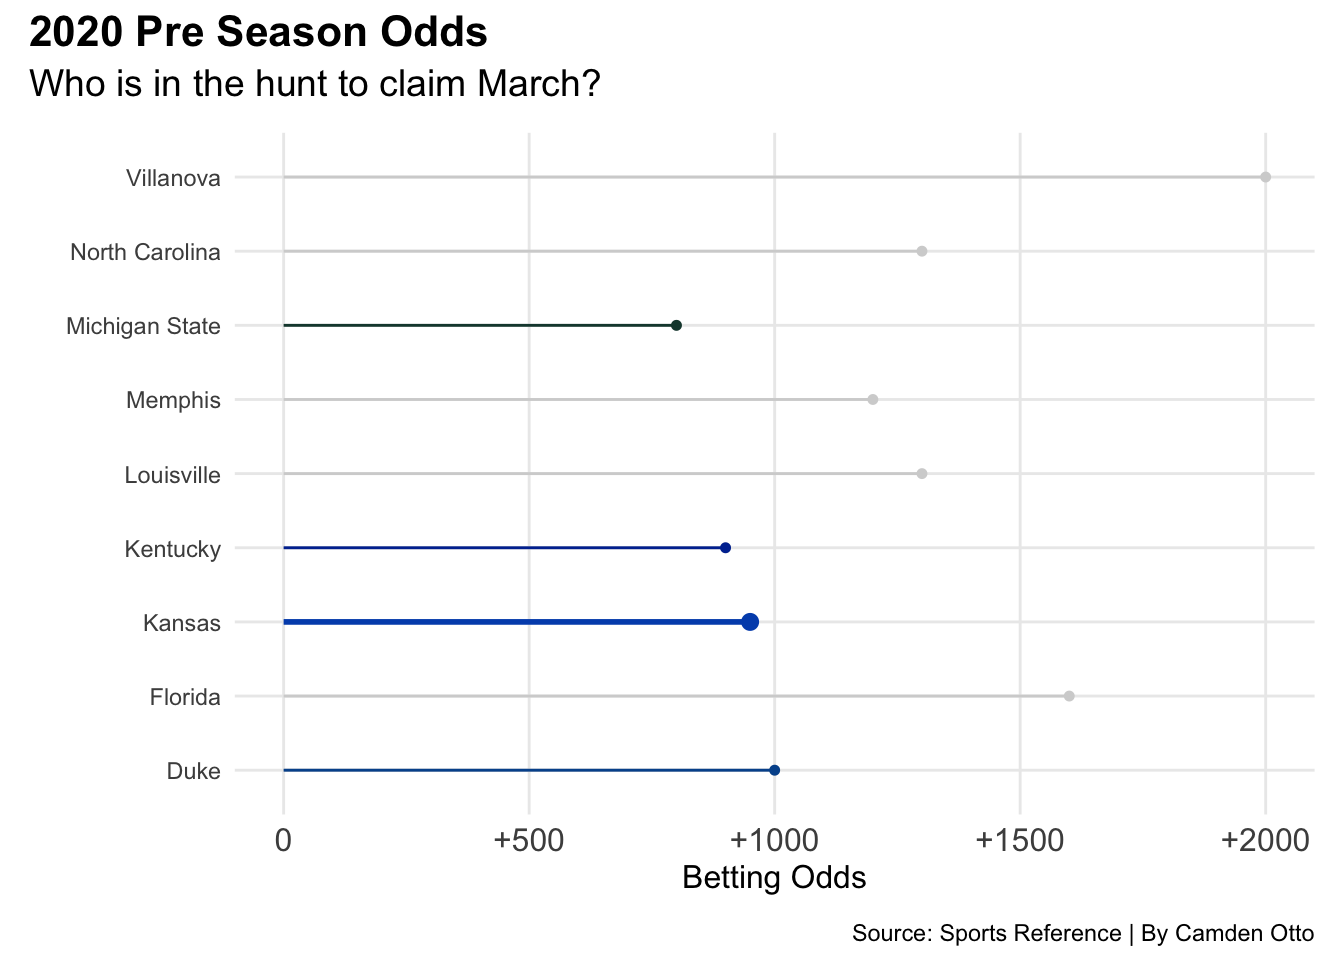
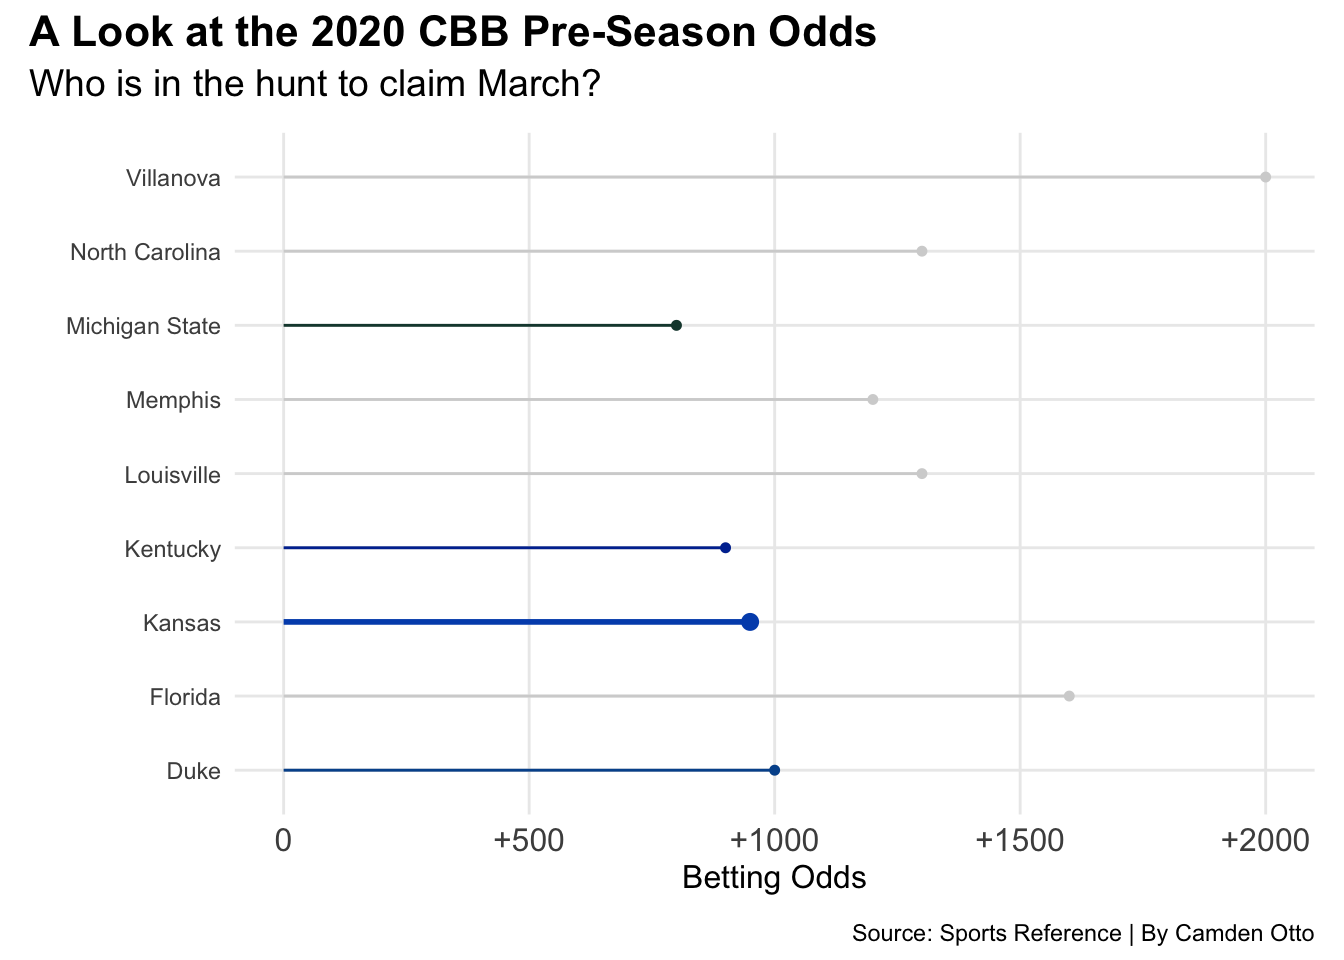
2.3

Changed region(s): [[0.0312, 0.0, 0.6562, 0.0625]]

diff --git a/posts/covid-got-scared-of-the-jayhawks/index.html b/posts/covid-got-scared-of-the-jayhawks/index.html
@@ -244,7 +244,7 @@ pre > code.sourceCode > span > a:first-child::before { text-decoration: underlin
 <span id="cb1-40"><a href="#cb1-40" aria-hidden="true" tabindex="-1"></a>    <span class="at">y=</span><span class="st">" "</span></span>
 <span id="cb1-41"><a href="#cb1-41" aria-hidden="true" tabindex="-1"></a>    ) <span class="sc">+</span></span>
 <span id="cb1-42"><a href="#cb1-42" aria-hidden="true" tabindex="-1"></a>    <span class="fu">plot_annotation</span>(</span>
-<span id="cb1-43"><a href="#cb1-43" aria-hidden="true" tabindex="-1"></a>    <span class="at">title =</span> <span class="st">"2020 Pre Season Odds"</span>,</span>
+<span id="cb1-43"><a href="#cb1-43" aria-hidden="true" tabindex="-1"></a>    <span class="at">title =</span> <span class="st">"A Look at the 2020 CBB Pre-Season Odds"</span>,</span>
 <span id="cb1-44"><a href="#cb1-44" aria-hidden="true" tabindex="-1"></a>    <span class="at">subtitle =</span> <span class="st">"Who is in the hunt to claim March?"</span>,</span>
 <span id="cb1-45"><a href="#cb1-45" aria-hidden="true" tabindex="-1"></a>    <span class="at">caption =</span> <span class="st">"Source: Sports Reference | By Camden Otto"</span></span>
 <span id="cb1-46"><a href="#cb1-46" aria-hidden="true" tabindex="-1"></a>  ) <span class="sc">&amp;</span> </span>
@@ -293,7 +293,7 @@ pre > code.sourceCode > span > a:first-child::before { text-decoration: underlin
 <span id="cb2-22"><a href="#cb2-22" aria-hidden="true" tabindex="-1"></a>    <span class="at">y=</span><span class="st">"Simple Rating System "</span></span>
 <span id="cb2-23"><a href="#cb2-23" aria-hidden="true" tabindex="-1"></a>    ) <span class="sc">+</span></span>
 <span id="cb2-24"><a href="#cb2-24" aria-hidden="true" tabindex="-1"></a>    <span class="fu">plot_annotation</span>(</span>
-<span id="cb2-25"><a href="#cb2-25" aria-hidden="true" tabindex="-1"></a>    <span class="at">title =</span> <span class="st">"2020 Conference Power Ranking"</span>,</span>
+<span id="cb2-25"><a href="#cb2-25" aria-hidden="true" tabindex="-1"></a>    <span class="at">title =</span> <span class="st">"Breaking Down the 2020 Conference Power Rankings"</span>,</span>
 <span id="cb2-26"><a href="#cb2-26" aria-hidden="true" tabindex="-1"></a>    <span class="at">subtitle =</span> <span class="st">"Measuring SOS and SRS across conferences."</span>,</span>
 <span id="cb2-27"><a href="#cb2-27" aria-hidden="true" tabindex="-1"></a>    <span class="at">caption =</span> <span class="st">"Source: Sports Reference | By Camden Otto"</span></span>
 <span id="cb2-28"><a href="#cb2-28" aria-hidden="true" tabindex="-1"></a>  ) <span class="sc">&amp;</span> </span>
@@ -345,7 +345,7 @@ pre > code.sourceCode > span > a:first-child::before { text-decoration: underlin
 <span id="cb3-26"><a href="#cb3-26" aria-hidden="true" tabindex="-1"></a>    <span class="at">y=</span><span class="st">"Simple Rating System "</span></span>
 <span id="cb3-27"><a href="#cb3-27" aria-hidden="true" tabindex="-1"></a>    ) <span class="sc">+</span></span>
 <span id="cb3-28"><a href="#cb3-28" aria-hidden="true" tabindex="-1"></a>    <span class="fu">plot_annotation</span>(</span>
-<span id="cb3-29"><a href="#cb3-29" aria-hidden="true" tabindex="-1"></a>    <span class="at">title =</span> <span class="st">"Recreate the Season That Never Finished"</span>,</span>
+<span id="cb3-29"><a href="#cb3-29" aria-hidden="true" tabindex="-1"></a>    <span class="at">title =</span> <span class="st">"Recreating the Season That Never Finished"</span>,</span>
 <span id="cb3-30"><a href="#cb3-30" aria-hidden="true" tabindex="-1"></a>    <span class="at">subtitle =</span> <span class="st">"From Coast to Coast, SOS and SRS have KU in the top spot."</span>,</span>
 <span id="cb3-31"><a href="#cb3-31" aria-hidden="true" tabindex="-1"></a>    <span class="at">caption =</span> <span class="st">"Source: Sports Reference | By Camden Otto"</span></span>
 <span id="cb3-32"><a href="#cb3-32" aria-hidden="true" tabindex="-1"></a>  ) <span class="sc">&amp;</span> </span>

diff --git a/index.html b/index.html
@@ -209,7 +209,7 @@ window.Quarto = {
 
 <div class="quarto-listing quarto-listing-container-default" id="listing-listing">
 <div class="list quarto-listing-default">
-<div class="quarto-post image-right" data-index="0" data-categories="a2Fuc2FzJTJDYmFza2V0YmFsbCUyQ2NvbGxlZ2UlMkNjb3ZpZA==" data-listing-date-sort="1765087200000" data-listing-file-modified-sort="1764602578362" data-listing-date-modified-sort="NaN" data-listing-reading-time-sort="12" data-listing-word-count-sort="2318">
+<div class="quarto-post image-right" data-index="0" data-categories="a2Fuc2FzJTJDYmFza2V0YmFsbCUyQ2NvbGxlZ2UlMkNjb3ZpZA==" data-listing-date-sort="1765087200000" data-listing-file-modified-sort="1764695415346" data-listing-date-modified-sort="NaN" data-listing-reading-time-sort="12" data-listing-word-count-sort="2325">
 <div class="thumbnail"><a href="./posts/covid-got-scared-of-the-jayhawks/index.html" class="no-external">
 
 <img loading="lazy" src="./posts/covid-got-scared-of-the-jayhawks/image.png" class="thumbnail-image">
